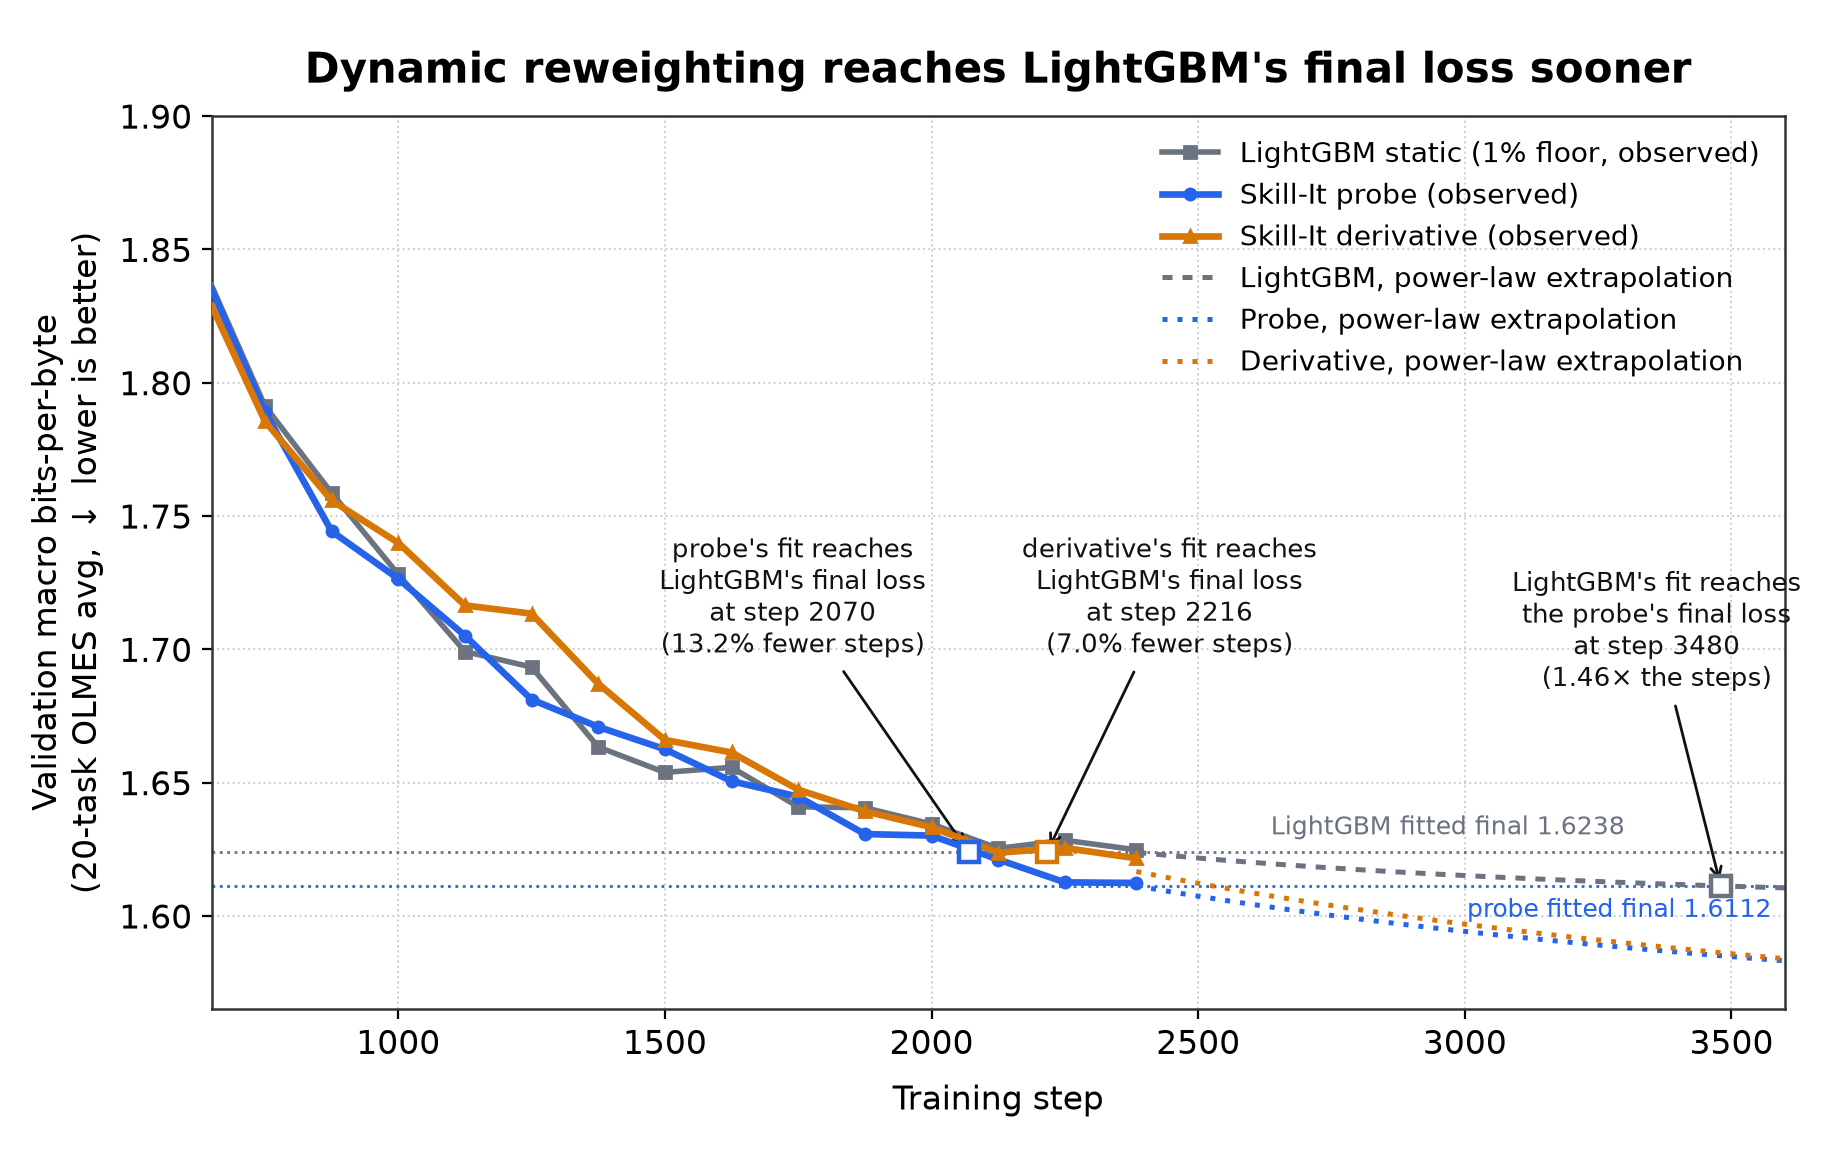
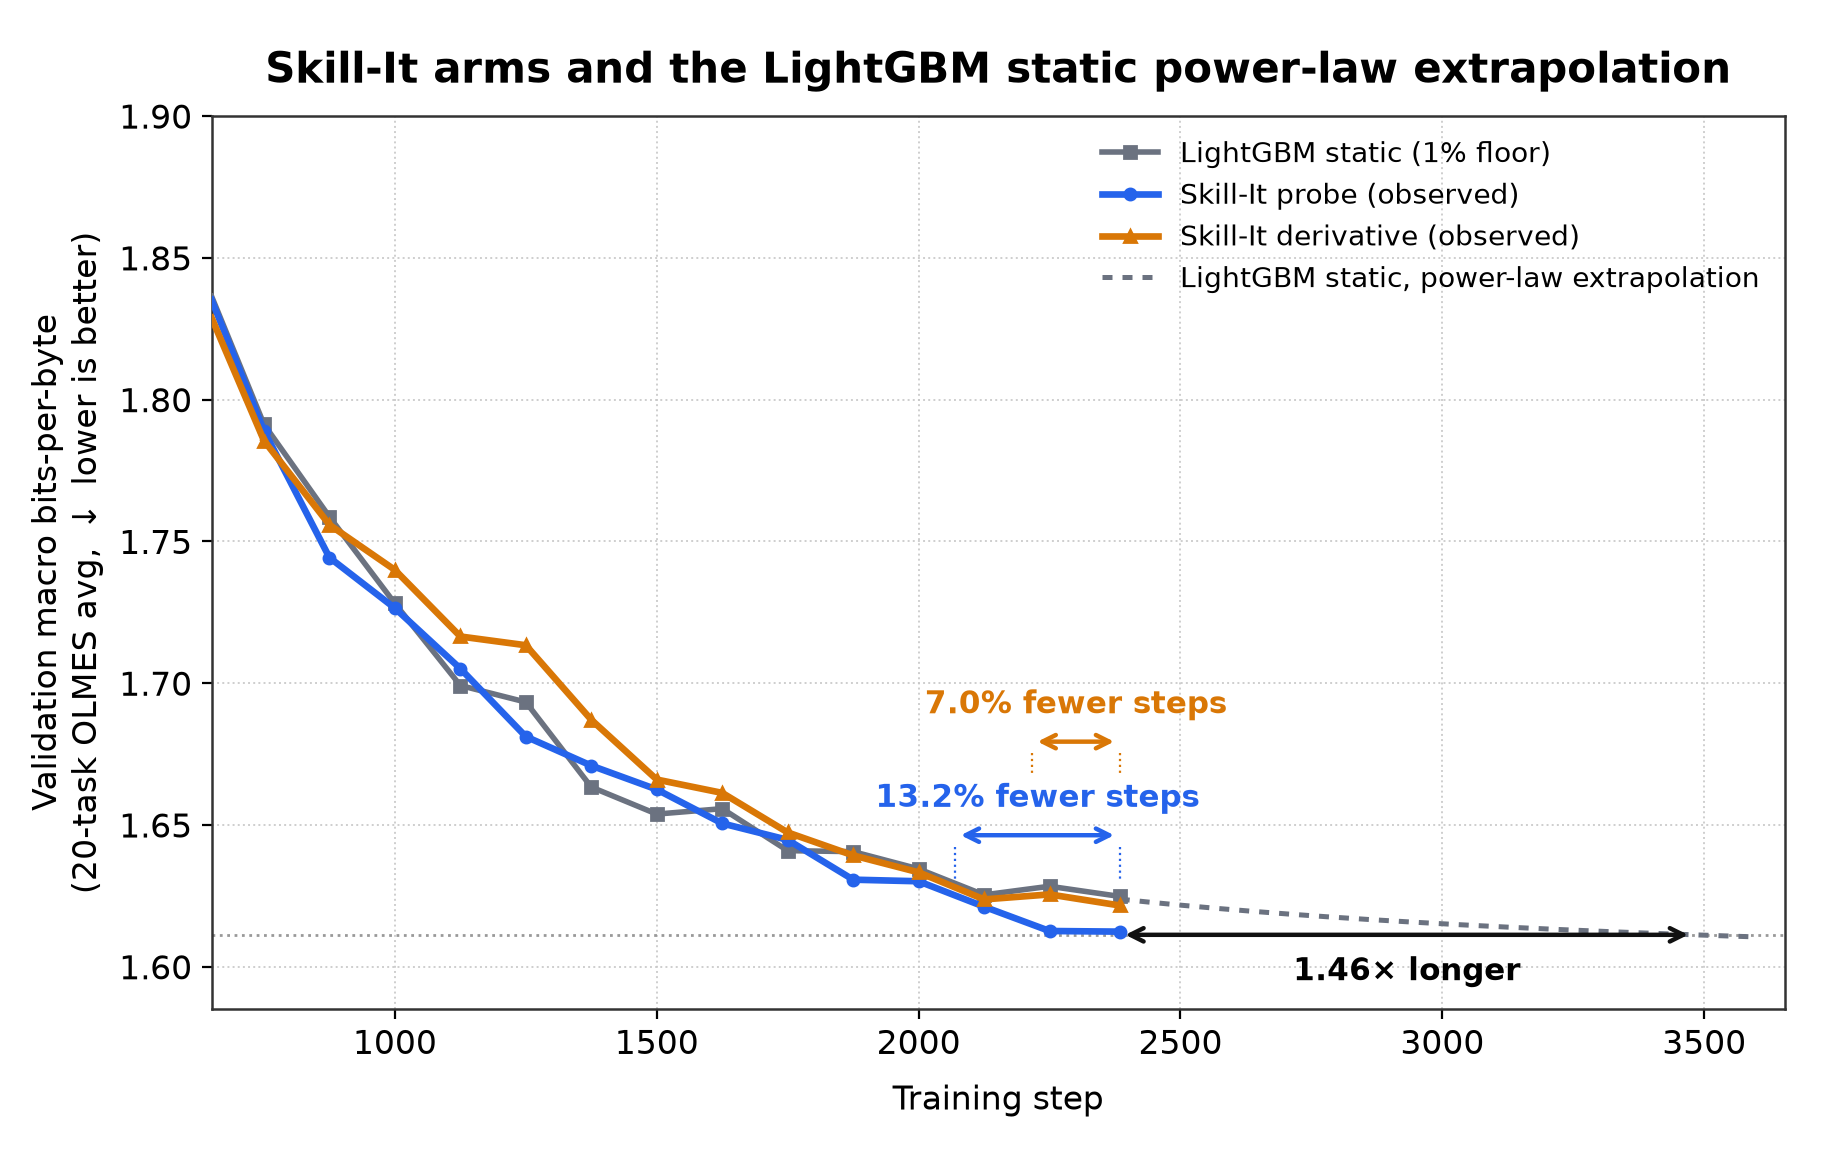
Figure III: use the original figure's exact drawing code
Reuses the original Figure III code (fewer-steps arrows above the curves with
dotted end ticks, an "x longer" arrow along the target loss line, the
reference's power-law extrapolation), with LightGBM static in the control's
place and the two Skill-It arms in MixLaw's. The only text is 13.2% and 7.0%
fewer steps and 1.46x longer.

diff --git a/experiments/skill-dag/mixlaw/plot_figure_iii_compute_savings.py b/experiments/skill-dag/mixlaw/plot_figure_iii_compute_savings.py
@@ -326,14 +326,15 @@ RESULTS_PATH.write_text(json.dumps(results, indent=2) + "\n", encoding="utf-8")
 print(f"\nWrote {RESULTS_PATH}")
 
 # --------------------------------------------------------------- figure
-# Same layout as the original Figure III (control vs MixLaw), with the LightGBM
-# static run as the reference and the two Skill-It arms as the comparisons.
+# Same drawing code as the original Figure III (MixLaw vs the control), with the
+# LightGBM static run in the control's place and the two Skill-It arms in
+# MixLaw's. Each "fewer steps" arrow takes its arm's color.
 fig, ax = plt.subplots(figsize=(9.2, 5.8), dpi=200)
 
 lgb, prb, drv = curve[REF_KEY], curve["skillit-probe"], curve["skillit-derivative"]
 keep = steps >= 700
 ax.plot(steps[keep], lgb[keep], color=COL_REF, linestyle="-", marker="s", markersize=4,
-        linewidth=2.0, zorder=3, label="LightGBM static (1% floor, observed)")
+        linewidth=2.0, zorder=3, label="LightGBM static (1% floor)")
 ax.plot(steps[keep], prb[keep], color=COL_PROBE, linestyle="-", marker="o", markersize=4,
         linewidth=2.4, zorder=4, label="Skill-It probe (observed)")
 ax.plot(steps[keep], drv[keep], color=COL_DERIV, linestyle="-", marker="^", markersize=4,
@@ -346,54 +347,53 @@ for _y, _color, _lw, _z in ((lgb, COL_REF, 2.0, 3), (prb, COL_PROBE, 2.4, 4), (d
     if _seg is not None:
         ax.plot(_seg[0], _seg[1], color=_color, linestyle="-", linewidth=_lw, zorder=_z)
 
-# Power-law extrapolation past the end of the run: dashed gray for LightGBM,
-# dotted for each Skill-It arm's own fit.
-ext = np.linspace(FINAL_STEP, X_RIGHT, 300)
+probe = dyn_results["skillit-probe"]
+conv = probe["converse_lightgbm_reaches_arm_final"]
+cross_step2 = conv["point_estimate_step"]
+times_longer = conv["point_estimate_multiple_of_run"]
+prb_final_fitted = probe["fitted_final"]
+
+ext = np.linspace(FINAL_STEP, cross_step2 * 1.03, 500)
 ax.plot(ext, powerlaw(ext, *ref["pt"]), color=COL_REF, linestyle=(0, (2, 2)), linewidth=1.8,
-        zorder=2, label="LightGBM, power-law extrapolation")
-ax.plot(ext, powerlaw(ext, *dyn["skillit-probe"]["pt"]), color=COL_PROBE, linestyle=(0, (1, 2)),
-        linewidth=1.8, zorder=2, label="Probe, power-law extrapolation")
-ax.plot(ext, powerlaw(ext, *dyn["skillit-derivative"]["pt"]), color=COL_DERIV, linestyle=(0, (1, 2)),
-        linewidth=1.8, zorder=2, label="Derivative, power-law extrapolation")
+        zorder=2, label="LightGBM static, power-law extrapolation")
 
-fit_lgb = ref["fitted"]
-fit_prb = dyn_results["skillit-probe"]["fitted_final"]
-ax.axhline(fit_lgb, color=COL_REF, linestyle=":", linewidth=1.0, zorder=1)
-ax.axhline(fit_prb, color=COL_PROBE, linestyle=":", linewidth=1.0, zorder=1)
-ax.text(X_RIGHT - 300, fit_lgb + 0.0045, f"LightGBM fitted final {fit_lgb:.4f}",
-        ha="right", va="bottom", fontsize=9, color=COL_REF)
-# LightGBM's label ends short of the right edge, clear of the arrow to its crossing;
-# the probe's sits below its line, above the Skill-It extrapolations.
-ax.text(X_RIGHT - 25, fit_prb - 0.0045, f"probe fitted final {fit_prb:.4f}",
-        ha="right", va="top", fontsize=9, color=COL_PROBE)
+ax.axhline(prb_final_fitted, color="#999999", linestyle=":", linewidth=1.0, zorder=1)
 
-annotations = []
-for key, short, color, dx in (("skillit-probe", "probe", COL_PROBE, -330),
-                              ("skillit-derivative", "derivative", COL_DERIV, 230)):
+# "Fewer steps" arrows sit above all curves over each arm's [crossing, final
+# step] span; the derivative's (shorter) arrow is stacked above the probe's.
+def window_max(start):
+    window = (steps >= start) & (steps <= FINAL_STEP)
+    return max(lgb[window].max(), prb[window].max(), drv[window].max())
+
+prev_text_top = None
+for key, color in (("skillit-probe", COL_PROBE), ("skillit-derivative", COL_DERIV)):
     r = dyn_results[key]
-    xc = r["reaches_lightgbm_final"]["point_estimate_step"]
-    annotations.append((xc, fit_lgb, color, dx,
-                        f"{short}'s fit reaches\nLightGBM's final loss\nat step {xc:.0f}\n"
-                        f"({100 * r['gross_step_saving']['point']:.1f}% fewer steps)"))
-conv = dyn_results["skillit-probe"]["converse_lightgbm_reaches_arm_final"]
-annotations.append((conv["point_estimate_step"], fit_prb, COL_REF, -120,
-                    f"LightGBM's fit reaches\nthe probe's final loss\nat step {conv['point_estimate_step']:.0f}\n"
-                    f"({conv['point_estimate_multiple_of_run']:.2f}\u00d7 the steps)"))
-for x, y, color, dx, text in annotations:
-    ax.plot([x], [y], marker="s", markersize=7, markerfacecolor="white",
-            markeredgecolor=color, markeredgewidth=1.6, zorder=6, linestyle="none")
-    ax.annotate(text, xy=(x, y), xytext=(x + dx, y + 0.075),
-                ha="center", fontsize=9.5, color="#111",
-                arrowprops=dict(arrowstyle="->", color="#111", lw=1.0))
-title = "Dynamic reweighting reaches LightGBM's final loss sooner"
+    cross_step = r["reaches_lightgbm_final"]["point_estimate_step"]
+    pct_faster = 100 * r["gross_step_saving"]["point"]
+    local_max = window_max(cross_step)
+    faster_y = local_max + 0.018 if prev_text_top is None else prev_text_top + 0.014
+    tick_bottom = local_max + 0.002 if prev_text_top is None else prev_text_top + 0.002
+    ax.annotate("", xy=(cross_step, faster_y), xytext=(FINAL_STEP, faster_y),
+                arrowprops=dict(arrowstyle="<->", color=color, lw=1.6))
+    ax.plot([cross_step, cross_step], [faster_y - 0.004, tick_bottom], color=color, lw=0.8, ls=":")
+    ax.plot([FINAL_STEP, FINAL_STEP], [faster_y - 0.004, tick_bottom], color=color, lw=0.8, ls=":")
+    ax.text((cross_step + FINAL_STEP) / 2, faster_y + 0.010, f"{pct_faster:.1f}% fewer steps",
+            ha="center", fontsize=11, fontweight="bold", color=color)
+    prev_text_top = faster_y + 0.010 + 0.009
+
+ax.annotate("", xy=(FINAL_STEP, prb_final_fitted), xytext=(cross_step2, prb_final_fitted),
+            arrowprops=dict(arrowstyle="<->", color="#111", lw=1.6))
+ax.text((FINAL_STEP + cross_step2) / 2, prb_final_fitted - 0.016, f"{times_longer:.2f}\u00d7 longer",
+        ha="center", fontsize=11, fontweight="bold")
 
 ax.set_xlabel("Training step", labelpad=8)
 ax.set_ylabel("Validation macro bits-per-byte\n(20-task OLMES avg, $\downarrow$ lower is better)")
-ax.set_title(title, fontsize=15, fontweight="bold", pad=12)
+ax.set_title("Skill-It arms and the LightGBM static power-law extrapolation", fontsize=15,
+             fontweight="bold", pad=12)
 ax.grid(True, linestyle=":", linewidth=0.7, color="#c9c9c9", alpha=0.9)
 ax.set_axisbelow(True)
-ax.set_xlim(650, X_RIGHT)
-ax.set_ylim(1.565, 1.90)
+ax.set_xlim(650, cross_step2 * 1.05)
+ax.set_ylim(1.585, 1.90)
 ax.legend(loc="upper right", frameon=False, fontsize=10)
 
 fig.subplots_adjust(left=0.115, right=0.97, top=0.90, bottom=0.13)
